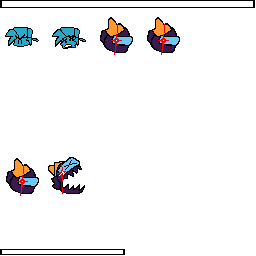
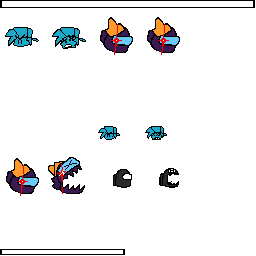
defeat old hud stuff
- switched week 1 snow
- added old psxfunkin hud for defeat and v1 songs

diff --git a/src/stage.c b/src/stage.c
@@ -809,7 +809,7 @@ static void Stage_DrawHealth(s16 health, u8 i, s8 ox)
 	{
 		//Get src and dst
 		fixed_t hx;
-		if (stage.stage_id != StageId_Defeat)
+		if ((stage.stage_id != StageId_Defeat) || ((stage.stage_id == StageId_Defeat) && (stage.song_step >= 1168) && (stage.song_step <= 1439)))
 			hx = (128 << FIXED_SHIFT) * (10000 - health) / 10000;
 		else
 			hx = (128 << FIXED_SHIFT) * (10000 - 10000) / 10000;
@@ -826,7 +826,7 @@ static void Stage_DrawHealth(s16 health, u8 i, s8 ox)
 			src.h << FIXED_SHIFT
 			};
 		if (stage.prefs.downscroll)
-			dst.y = -dst.y - dst.h;
+			dst.y = (-dst.y - dst.h) - FIXED_DEC(4,1);
 
 		dst.y += stage.noteshakey;
 		dst.x += stage.noteshakex;
@@ -857,7 +857,7 @@ static void Stage_DrawHealth(s16 health, u8 i, s8 ox)
 	{
 		//Get src and dst
 		fixed_t hx;
-		if (stage.stage_id != StageId_Defeat)
+		if ((stage.stage_id != StageId_Defeat) || ((stage.stage_id == StageId_Defeat) && (stage.song_step >= 1168) && (stage.song_step <= 1439)))
 			hx = (128 << FIXED_SHIFT) * (10000 - health) / 10000;
 		else
 			hx = (128 << FIXED_SHIFT) * (10000 - 10000) / 10000;
@@ -874,7 +874,7 @@ static void Stage_DrawHealth(s16 health, u8 i, s8 ox)
 			src.h << FIXED_SHIFT
 			};
 		if (stage.prefs.downscroll)
-			dst.y = -dst.y - dst.h;
+			dst.y = (-dst.y - dst.h) - FIXED_DEC(4,1);
 
 		dst.y += stage.noteshakey;
 		dst.x += stage.noteshakex;
@@ -2373,13 +2373,25 @@ void Stage_Tick(void)
 				
 				if (show)
 				{
-					stage.font_cdr.draw_col(&stage.font_cdr,
-						this->score_text,
-						(stage.mode == StageMode_2P && i == 0) ? 10 : -150,
-						(stage.prefs.downscroll) ? -(screen.SCREEN_HEIGHT2 - 12) : (screen.SCREEN_HEIGHT2 - 21),
-						FontAlign_Left,
-						sred >> 1, sblue >> 1, sgreen >> 1
-					);
+					if ((stage.stage_id == StageId_AlphaMoogus || (stage.stage_id == StageId_ActinSus)) || ((stage.stage_id == StageId_Defeat) && (stage.song_step >= 1168) && (stage.song_step <= 1439)))
+					{
+						stage.font_cdr.draw(&stage.font_cdr,
+							this->score_text,
+							14,
+							(stage.prefs.downscroll) ? -(screen.SCREEN_HEIGHT2 - 33) : (screen.SCREEN_HEIGHT2 - 42),
+							FontAlign_Left
+						);
+					}
+					else
+					{
+						stage.font_cdr.draw_col(&stage.font_cdr,
+							this->score_text,
+							(stage.mode == StageMode_2P && i == 0) ? 10 : -150,
+							(stage.prefs.downscroll) ? -(screen.SCREEN_HEIGHT2 - 12) : (screen.SCREEN_HEIGHT2 - 21),
+							FontAlign_Left,
+							sred >> 1, sblue >> 1, sgreen >> 1
+						);
+					}
 				}
 			}
 				
@@ -2407,15 +2419,18 @@ void Stage_Tick(void)
 					this->refresh_miss = false;
 				}
 				
-				if (show)
+				if (((stage.stage_id == StageId_Defeat) && ((stage.song_step <= 1167) || (stage.song_step >= 1440))) || ((stage.stage_id != StageId_AlphaMoogus) && (stage.stage_id != StageId_ActinSus) && (stage.stage_id != StageId_Defeat)))
 				{
-					stage.font_cdr.draw_col(&stage.font_cdr,
-						this->miss_text,
-						(stage.mode == StageMode_2P && i == 0) ? 100 : -60, 
-						(stage.prefs.downscroll) ? -(screen.SCREEN_HEIGHT2 - 12) : (screen.SCREEN_HEIGHT2 - 21),
-						FontAlign_Left,
-						sred >> 1, sblue >> 1, sgreen >> 1
-					);
+					if (show)
+					{
+						stage.font_cdr.draw_col(&stage.font_cdr,
+							this->miss_text,
+							(stage.mode == StageMode_2P && i == 0) ? 100 : -60, 
+							(stage.prefs.downscroll) ? -(screen.SCREEN_HEIGHT2 - 12) : (screen.SCREEN_HEIGHT2 - 21),
+							FontAlign_Left,
+							sred >> 1, sblue >> 1, sgreen >> 1
+						);
+					}
 				}
 			}
 				
@@ -2445,15 +2460,18 @@ void Stage_Tick(void)
 					this->refresh_accuracy = false;
 				}
 				//sorry for this shit lmao
-				if (show)
+				if (((stage.stage_id == StageId_Defeat) && ((stage.song_step <= 1167) || (stage.song_step >= 1440))) || ((stage.stage_id != StageId_AlphaMoogus) && (stage.stage_id != StageId_ActinSus) && (stage.stage_id != StageId_Defeat)))
 				{
-					stage.font_cdr.draw_col(&stage.font_cdr,
-						this->accuracy_text,
-						(stage.mode == StageMode_2P && i == 0) ? 50 : (stage.mode == StageMode_2P && i == 1) ? -110 : 39, 
-						(stage.prefs.downscroll) ? -(screen.SCREEN_HEIGHT2 - 12) : (screen.SCREEN_HEIGHT2 - 21),
-						FontAlign_Left,
-						sred >> 1, sblue >> 1, sgreen >> 1
-					);
+					if (show)
+					{
+						stage.font_cdr.draw_col(&stage.font_cdr,
+							this->accuracy_text,
+							(stage.mode == StageMode_2P && i == 0) ? 50 : (stage.mode == StageMode_2P && i == 1) ? -110 : 39, 
+							(stage.prefs.downscroll) ? -(screen.SCREEN_HEIGHT2 - 12) : (screen.SCREEN_HEIGHT2 - 21),
+							FontAlign_Left,
+							sred >> 1, sblue >> 1, sgreen >> 1
+						);
+					}
 				}
 			}
 			
@@ -2567,6 +2585,8 @@ void Stage_Tick(void)
 						{
 							stage.state = StageState_Dead;
 						}
+						if ((stage.stage_id == StageId_Defeat) && (stage.song_step == 1167))
+							stage.player_state[0].health = 10000;
 						if (stage.player_state[0].health > 20000)
 							stage.player_state[0].health = 20000;
 
@@ -2578,7 +2598,7 @@ void Stage_Tick(void)
 						Stage_DrawHealth(stage.player_state[0].health, stage.player_state[1].character->health_i, -1);
 					
 						//Draw health bar
-						if (stage.stage_id != StageId_Defeat)
+						if ((stage.stage_id != StageId_Defeat) || ((stage.stage_id == StageId_Defeat) && (stage.song_step >= 1168) && (stage.song_step <= 1439)))
 						{
 							if (stage.mode == StageMode_Swap)
 							{

diff --git a/src/stage/polus.c b/src/stage/polus.c
@@ -40,7 +40,6 @@ typedef struct
 
 } Back_Polus;
 
-/*
 //Snow animation and rects
 static const CharFrame snow_frame[] = {
   {0, {  0,  0,198, 88}, {149,158}}, //0 snow 1
@@ -110,7 +109,6 @@ void Polus_Snow_Draw(Back_Polus *this, fixed_t x, fixed_t y)
 	Debug_StageMoveDebug(&dst, 9, stage.camera.x, stage.camera.y);
 	Stage_DrawTex(&this->tex_snow, &src, &dst, stage.camera.bzoom);
 }
-*/
 
 typedef struct 
 {
@@ -260,12 +258,12 @@ void Back_Polus_DrawFG(StageBack *back)
 	fx = stage.camera.x;
 	fy = stage.camera.y;
 	
-//	if (stage.flag & STAGE_FLAG_JUST_STEP && (stage.song_step == -29))
-//		Animatable_SetAnim(&this->snow_animatable, 0);
-	tickFlakes();
+	if (stage.flag & STAGE_FLAG_JUST_STEP && (stage.song_step == -29))
+		Animatable_SetAnim(&this->snow_animatable, 0);
+//	tickFlakes();
 	
-//	Animatable_Animate(&this->snow_animatable, (void*)this, Polus_Snow_SetFrame);
-	//Polus_Snow_Draw(this, FIXED_DEC(-10 + 155,1) - fx, FIXED_DEC(-25 + 155,1) - fy);
+	Animatable_Animate(&this->snow_animatable, (void*)this, Polus_Snow_SetFrame);
+	Polus_Snow_Draw(this, FIXED_DEC(-10 + 155,1) - fx, FIXED_DEC(-25 + 155,1) - fy);
 }
 
 void Back_Polus_DrawMG(StageBack *back)
@@ -404,7 +402,7 @@ StageBack *Back_Polus_New(void)
 	this->arc_snow_ptr[11] = Archive_Find(this->arc_snow, "snow11.tim");
 	
 	//Initialize snow state
-	//Animatable_Init(&this->snow_animatable, snow_anim);
+	Animatable_Init(&this->snow_animatable, snow_anim);
 	Animatable_SetAnim(&this->snow_animatable, 0);
 	this->snow_frame = this->snow_tex_id = 0xFF; //Force art load
 	

diff --git a/src/character/bfdefeat.c b/src/character/bfdefeat.c
@@ -210,12 +210,14 @@ void Char_BFDefeat_Tick(Character *character)
 			this->character.focus_x = FIXED_DEC(-188,1);
 			this->character.focus_y = FIXED_DEC(-128,1);
 			this->character.focus_zoom = FIXED_DEC(1,1);
-			this->character.health_i = 9;
+			this->character.health_bar = 0xFF5EFF35;
+			this->character.health_i = 8;
 		}
 		if (stage.song_step == 1440)
 		{
 			this->character.focus_y = FIXED_DEC(-140,1);
 			this->character.focus_zoom = FIXED_DEC(427,512);
+			this->character.health_bar = 0xFF29B5D6;
 			this->character.health_i = 0;
 		}
 		if (stage.song_step == 1696)

diff --git a/src/character/black.c b/src/character/black.c
@@ -226,7 +226,7 @@ void Char_Black_Tick(Character *character)
 			Animatable_Init(&this->character.animatable, char_black_anim2);
 			character->set_anim(character, CharAnim_Up);
 			this->character.health_i = 9;
-			this->character.health_bar = 0xFFFFFFFF;
+			this->character.health_bar = 0xFFFF0000;
 			this->character.size = FIXED_DEC(2,1);
 		}
 		if (stage.song_step == 1440)
